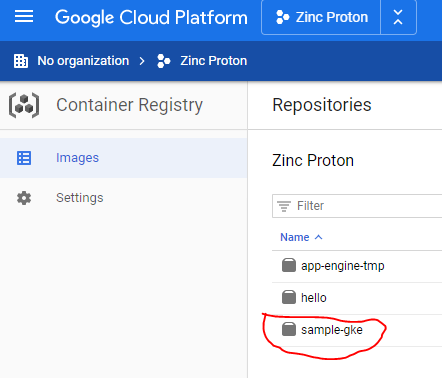
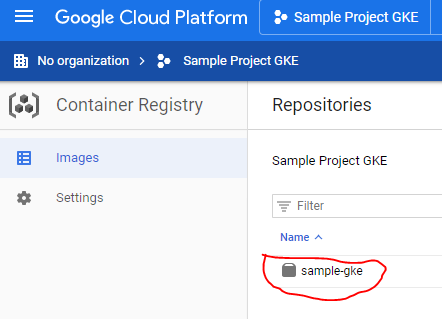
create cluster

diff --git a/README.md b/README.md
@@ -21,48 +21,36 @@ A cluster consists of at least one cluster master and multiple worker machines c
 
 ![Cluster](./docs/cluster.png)
 
+### Node pool
+It is a group of nodes within a cluster that all have the same configuration.
+
+![node-pool](./docs/node-pool.png)
+
+You can add additional custom node pools of different sizes, zones and types to your cluster. All nodes in any given node pool are identical to one another.
 
 ***
-## Cluster Orchestration
-The nodes, pods, containers and others are orchestrated by Kubernetes via Kubectl, gcloud and the Cloud Console.
+## Create GCP account
 
-* **Cloud Shell** is a shell environment for managing resources hosted on Google Cloud. It comes with kubectl and gcloud.
-
-* **Kubectl** is a command-line client that calls the Kubernetes APIs. It provides the primary command-line interface for running commands against Kubernetes clusters.
-
-* **gcloud** is a tool that provides the primary command-line interface for Google Cloud, and kubectl provides the primary command-line interface for running commands against Kubernetes clusters.
-
-* **Cloud Console**: You can also use the UI instead of Kubectl and gcloud.
-
+In your browser open the Google Cloud Console https://console.cloud.google.com/
+If you are creating a new email account for GCP, make sure to go incognito or to logout other accounts.
+It gives you US $300.00 credit to be spent over a year. That is, you have to be really careful on what you choose, specially on CPU and Memory.
 
 ***
-## Create a GCP Project
+## Create a Project
 
-* Open the Cloud Console UI https://console.cloud.google.com and create a new project. My project's name is **Zinc Proton**
+* Open the Cloud Console UI https://console.cloud.google.com and create a new project. My project's name is ** Sample Project GKE**
 * Select the Project in the UI.
-* Copy the project ID (ex: **zinc-proton-272919**)
+* Copy the project ID (ex: **sample-project-gke**)
 * To select your project in the terminal, open Cloud Shell and select your project in the terminal:
 
     ![cloud-shell-icon](./docs/cloud-shell-icon.png)
 
-* then run ***gcloud config set project zinc-proton-272919***
-* Enable GCE (Google Compute Engine)
-    
-    ![gce](./docs/gce.png)
-
-
 ***
-## Deploy an application (From your local Docker)
-
-### Create a Cluster
-You can create a cluster in either the command line or in the Cloud Console UI. Go to Kubernetes Engine / Cluster and click on Create Cluster
-I would recommend creating everything from now on in the same Region and Zone.
-Example: ***us-central1-c*** (region: ***us-central***; zone: ***c***)
 
 ### Install Google Cloud SDK to your laptop
 With this SDK you can run gcloud from your local terminal instead of using the remote **Cloud Shell** terminal available in the browser.
-Actually, you may never need this local SDK in the future, but now you need to upload your local Docker Images to the **Container Registry** (This is the Google Image Registry).
-Next, I will describe the SDK installation on Windows and Ubuntu on WSL (Windows Subsystem for Linux).
+Actually, I am not sure if you will need this local SDK in the future, but now you need to upload your local Docker Images to the **Container Registry** (This is the Google Image Registry).
+Next, I will describe the SDK installation on Windows (recommended) and Ubuntu on WSL (Windows Subsystem for Linux).
 
 #### Windows
 * Install Docker Desktop for Windows. See https://docs.docker.com/docker-for-windows/install/
@@ -70,17 +58,17 @@ Next, I will describe the SDK installation on Windows and Ubuntu on WSL (Windows
     > Google Cloud SDK command lines only work with windows terminal CMD. If you want it to work with Git Bash, you need to install Python.
 * Start **Google Cloud SDK Shell** (I guess this is just a simple CMD terminal, I am really not sure)
 * Make sure you are in the VPN because next step will config the VPN.
-* Run ***gcloud init*** to connect to your GCP project (zinc-proton-272919)
+* Run ***gcloud init*** to connect to your GCP project (sample-project-gke)
 * gcloud might throw an error due to VPN limitations:
 
     ![vpn error](./docs/vpn-error.png)
 
 * Config the VPN.
-* After the VPN config, it requests your GCP credentials and the project to select (zinc-proton-272919). Configure local Docker to authenticate to GCP Container Registry (you need to run this only once): ***gcloud auth configure-docker***
+* After the VPN config, it requests your GCP credentials and the project to select (sample-project-gke). Configure local Docker to authenticate to GCP Container Registry (you need to run this only once): ***gcloud auth configure-docker***
 
 #### Ubuntu on WSL (Windows Subsystem for Linux)
 
-* Docker Desktop for Windows
+* Install Docker Desktop for Windows (Ubuntu will connect to it)
     * Install Docker Desktop for Windows. See https://docs.docker.com/docker-for-windows/install/
     * Righ click on the tray and select Settings
         
@@ -92,6 +80,7 @@ Next, I will describe the SDK installation on Windows and Ubuntu on WSL (Windows
         ![docker daemon](./docs/docker-daemon.png)
         > It mentions *use with caution* because it won't be encrypted (no TLS). However, do not bother with the vulnerability as you are exposing the Docker daemon only to your laptop.
 * Ubuntu on WSL
+    Source: https://nickjanetakis.com/blog/setting-up-docker-for-windows-and-wsl-to-work-flawlessly
 
     ![ubuntu-docker-daemon](./docs/ubuntu-docker-daemon.png)
     > Ubuntu will be installed as a Windows subsystem, that is, it can share a few resources but it is still sort of indepent from Windows (I hope). \
@@ -126,31 +115,76 @@ Next, I will describe the SDK installation on Windows and Ubuntu on WSL (Windows
     **source ~/.bashrc**
     * Test Docker \
     **docker info**
-    * Run ***gcloud init*** to connect to your GCP project (zinc-proton-272919). You may be asked to authenticate to your GCP account, then run **gcloud auth configure-docker**
+    * Run ***gcloud init*** to connect to your GCP project (sample-project-gke). You may be asked to authenticate to your GCP account, then run **gcloud auth configure-docker**
     * List your GKE projects
     **gcloud projects list**
 
 ### GCP Authentication
 * In case you need to login again: ***gcloud auth login***
 
+## Create Billing
+
+* Enable GCE (Google Compute Engine)
+    
+    ![gce](./docs/gce.png)
+
+### Enable GKE and Billing
+
+In the *Cloud Console*, make sure the project *Sample Project GKE* is selected.
+In the left menu, go to *Kubernetes Engine*. Click on *Sign up for a free trial*. Notice that Google provides US$ 300 credit for 1 year and promises to not charge without your permission.
+
+![free-trial](./docs/free-trial.png)
+
+You will be asked to enable billing as well.
+
+### Create a Cluster
+
+The *GKE* environment consists of *Compute Engine* instances grouped together to form a cluster.
+A *Compute Engine* is a VM running in Google data centers, these VM's CPU and memory are scalable and configurable.
+You have to be really careful to create a cluster, because the *Compute Engine* cost depends on the CPU, memory, hardware and location. You don't want to spend all of your credits in an expensive VM.
+There are a list of *Compute Engine* locations, and only a few of them provide free tiers.
+These locations are based on Region and Zones.
+Example: ***us-west1-c*** (region=***us-west1***; zone=***c***)
+
+*Compute Engine* free tier recommendations - For details check https://cloud.google.com/free/docs/gcp-free-tier
+* Your Always Free ***f1-micro VM instance*** limit is by time, not by instance. (Couldn't find this option though, I think it is out of date)
+* Region: ***us-west1*** (The closest free option to Vancouver)
+
+To create the cluste, go to the *Cloud Console* / *Kubernetes Engine* / *Cluster* and click on Create Cluster.
+
+![create-cluster](./docs/create-cluster.png)
+
 ### Create the image
-* Enable the Container Registry for your project (Zinc Proton). Try either following options, I am really not sure what I‘ve done to get this working:
+* Enable the Container Registry for your project ( Sample Project GKE). Try either following options, I am really not sure what I‘ve done to get this working:
     * https://console.cloud.google.com/apis/library/containerregistry.googleapis.com
     * Or go to menu Tools / Container Registry
 
-* In the Google Cloud SDK terminal, go to the root folder of the sample-gke project. If it is your first ever docker build you may have VPN issues.
-* Build the local docker image [ `docker build -t GCP_CONTAINER_REGISTRY/PROJECT_ID/IMAGE_NAME:TAG .` ]. Example: ***`docker build -t gcr.io/zinc-proton-272919/sample-gke:v1 .`***
+    ![config-docker-proxy](./docs/config-docker-proxy.png)
+
+* In the Google Cloud SDK terminal, go to the root folder of the sample-gke nodejs project.
+* Build the local docker image [ `docker build -t GCP_CONTAINER_REGISTRY/PROJECT_ID/IMAGE_NAME:TAG .` ]. Example: ***`docker build -t gcr.io/sample-project-gke/sample-gke:v1 .`***
+    > VPN troubleshooting: If it is your first ever docker build you may have VPN issues, specially because the first time it downloads a few images that will be saved on your local docker registry, such as *node:lts-alpine*. You can either turn off the VPN or configure it on the Docker Desktop Settings.\
+    VPN: `http://webproxystatic-bc.tsl.telus.com:8080`
+
+    ![config-docker-proxy](./docs/config-docker-proxy.png)
+
 * To view the image you just created: ***`docker images`***
-* Push your image to the *GCP Container Registry*: ***docker push gcr.io/zinc-proton-272919/sample-gke:v1***
+* Push your image to the *GCP Container Registry*: ***docker push gcr.io/sample-project-gke/sample-gke:v1***
 
 ### Upload the image
 * Configure local Docker to authenticate to GCP Container Registry (you need to run this only once): ***gcloud auth configure-docker***
 * In case you need to login again: ***gcloud auth login***
 * To make sure you are logged in, you can list the GKE projects: ***gcloud projects list***
-* Push the image: ***`docker push gcr.io/zinc-proton-272919/sample-gke:v1`***
+* Push the image: ***`docker push gcr.io/sample-project-gke/sample-gke:v1`***
 * To view your uploaded image, go to the GCP console, in the menu, go to the *Tools* section, select *Container Registry / Images*
 
     ![container-registry](./docs/container-registry.png)
 
+***
 ### Deploy Image
 
+### Command line
+You can deploy your docker image through command lines on either, the Google Cloud SDK or the Cloud Shell (Browser)
+However, let's skip this part.
+
+*kubectl create deployment sample-gke --image=gcr.io/sample-project-gke/sample-gke:v1*
